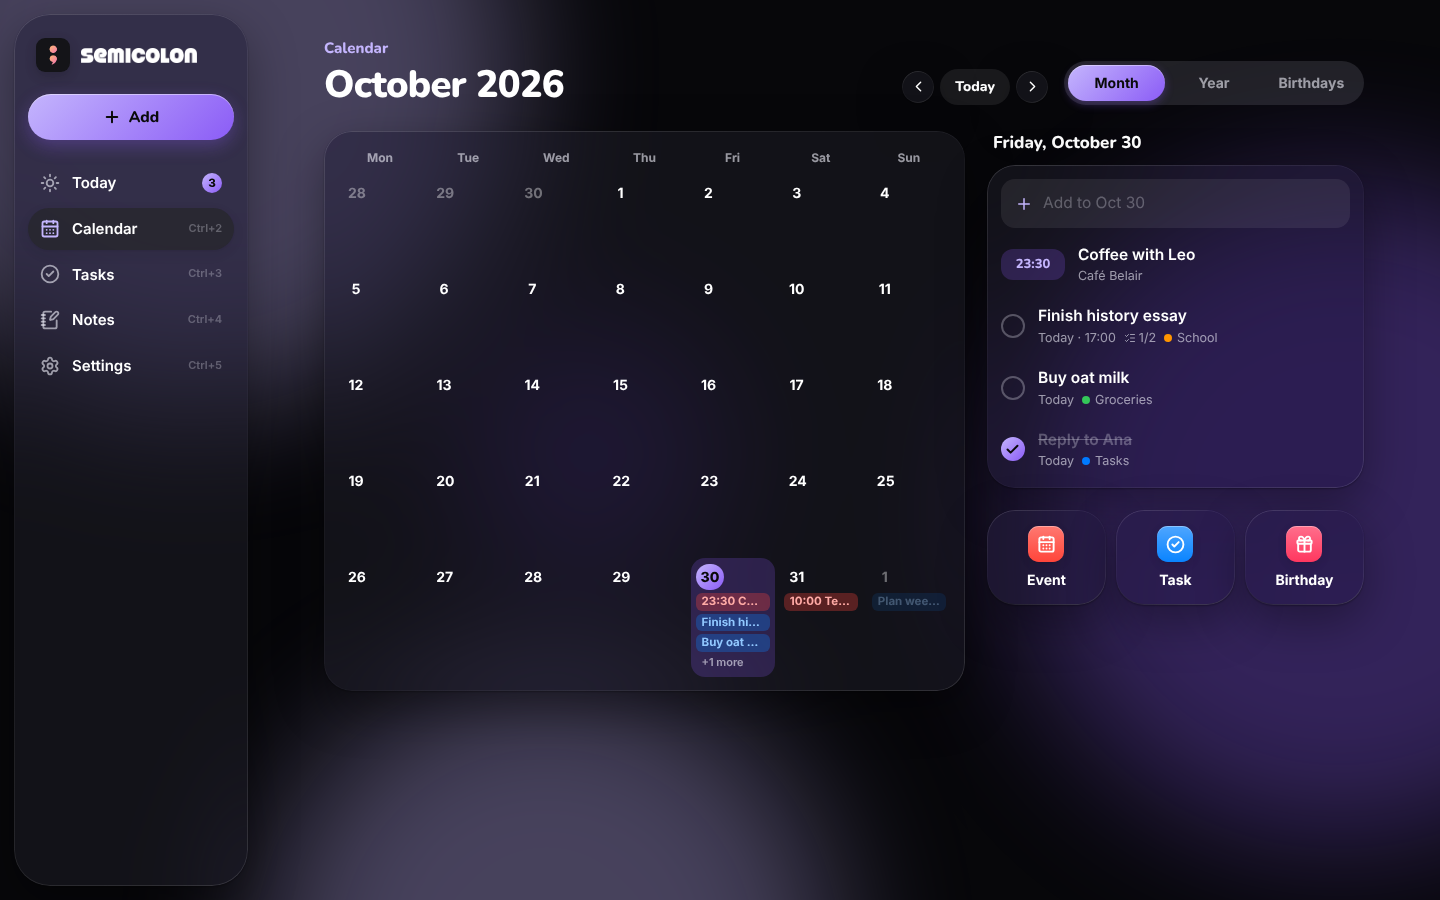
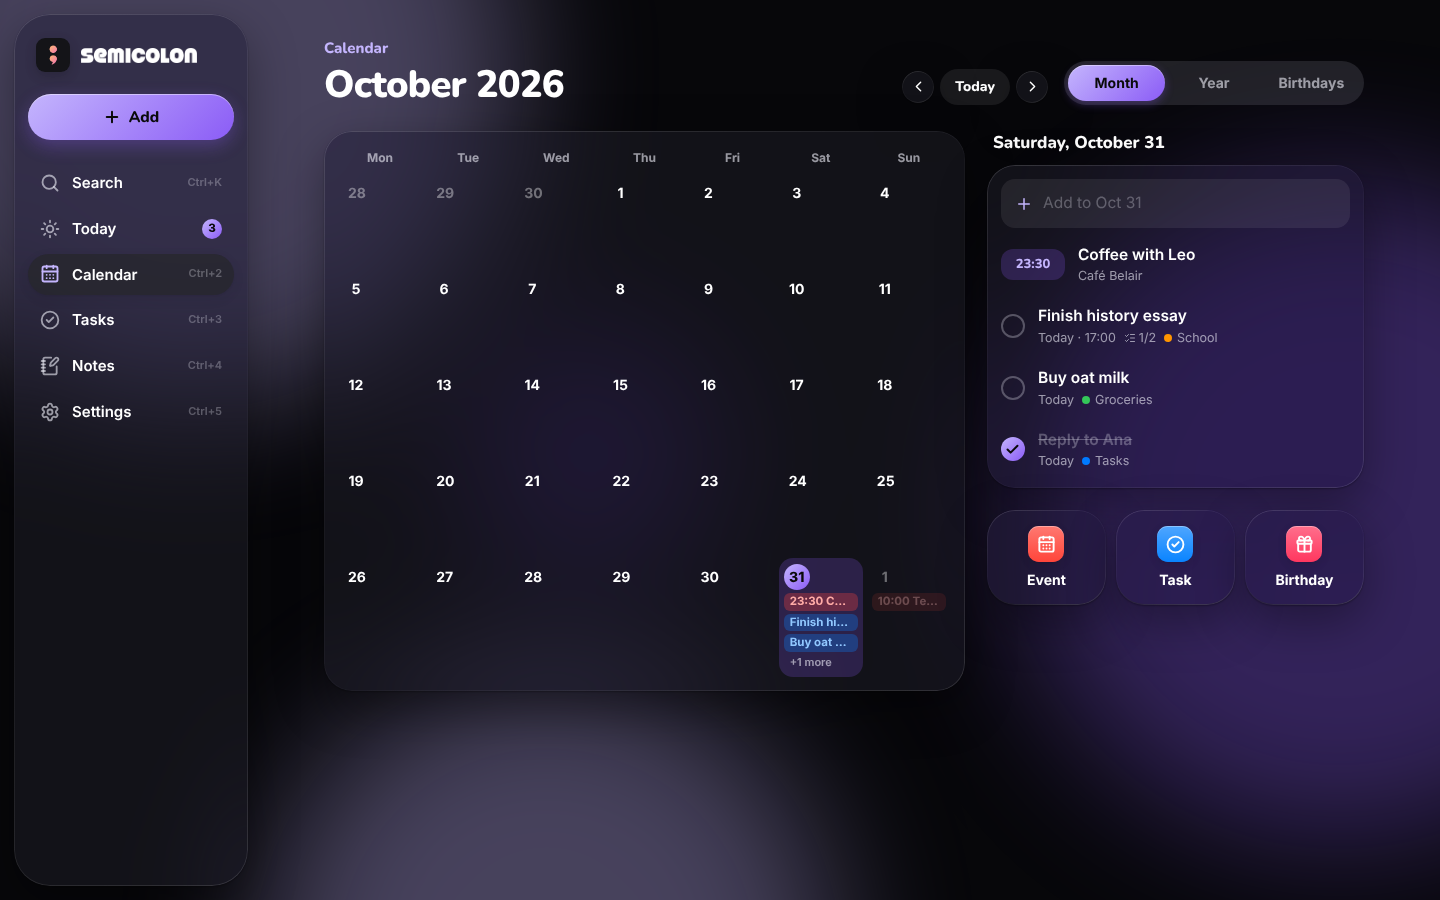
Add files via upload

diff --git a/README.md b/README.md
@@ -25,7 +25,10 @@
 - **Tasks**: smart lists (Today, Scheduled, All, Completed) and your own colored lists with checklists.
 - **Notes**: written notes and voice notes.
 - **Focus timer**: calm focus and break sessions that keep running while you use other apps.
-- **Reminders**: notifications for tasks, events and birthdays.
+- **Reminders**: notifications for tasks, events and birthdays, even when the window is closed.
+- **Search everything**: press **Ctrl + K** (**⌘ K** on Mac) to find any task, event, birthday, list or note.
+- **Quick add from anywhere**: press **Ctrl + Shift + Space** (**⌘ ⇧ Space** on Mac) in any app, type "Dentist tomorrow 3pm", and it's added.
+- **Runs quietly in the background**: closing the window keeps Semicolon next to the clock (Windows) or in the menu bar (Mac), and it can start with your computer.
 - **Make it yours**: light and dark mode, 11 themes plus your own colors, and a soft moving glow.
 - **Speaks your language**: English, Français, Português, Deutsch and Español, picked from your computer's language.
 - **Updates itself**: when a new version is out, an Update button appears in the app.
@@ -39,7 +42,8 @@
   <img src="screenshots/notes.png" width="49%" alt="Notes">
 </p>
 <p align="center">
-  <img src="screenshots/settings.png" width="70%" alt="Settings">
+  <img src="screenshots/search.png" width="49%" alt="Search">
+  <img src="screenshots/settings.png" width="49%" alt="Settings">
 </p>
 
 ## Download and install
@@ -51,6 +55,7 @@ Go to the **[latest release](https://github.com/beepinho/semicolon-releases/rele
 1. Download **`Semicolon_x.x.x_x64-setup.exe`** and open it.
 2. If Windows says *"Windows protected your PC"*, click **More info**, then **Run anyway**.
 3. Semicolon opens when it's done, and you'll find it in the Start menu.
+4. If Windows Defender blocks it, it's a false alarm because the app isn't paid-signed. Open **Windows Security → Protection history**, choose the Semicolon entry, then **Actions → Allow on device**.
 
 ### Mac (Apple Silicon and Intel, macOS 10.15 Catalina or newer)
 
@@ -66,8 +71,16 @@ Go to the **[latest release](https://github.com/beepinho/semicolon-releases/rele
 Everything is saved only on your computer. Semicolon has no account and doesn't collect any data.
 The weather uses [Open-Meteo](https://open-meteo.com), and only your city's approximate location is sent.
 
-You can back everything up to one file in **Settings → Backup**, and restore it on another computer.
-The same backup file also works with Semicolon on iPhone.
+You can back everything up to one file in **Settings → Backup**, and restore it on another computer, Windows or Mac.
+
+## Keyboard shortcuts
+
+| | Windows | Mac |
+|---|---|---|
+| Add something | Ctrl + N | ⌘ N |
+| Search | Ctrl + K | ⌘ K |
+| Quick add from any app | Ctrl + Shift + Space | ⌘ ⇧ Space |
+| Today, Calendar, Tasks, Notes, Settings | Ctrl + 1 to 5 | ⌘ 1 to 5 |
 
 ## Help
 
